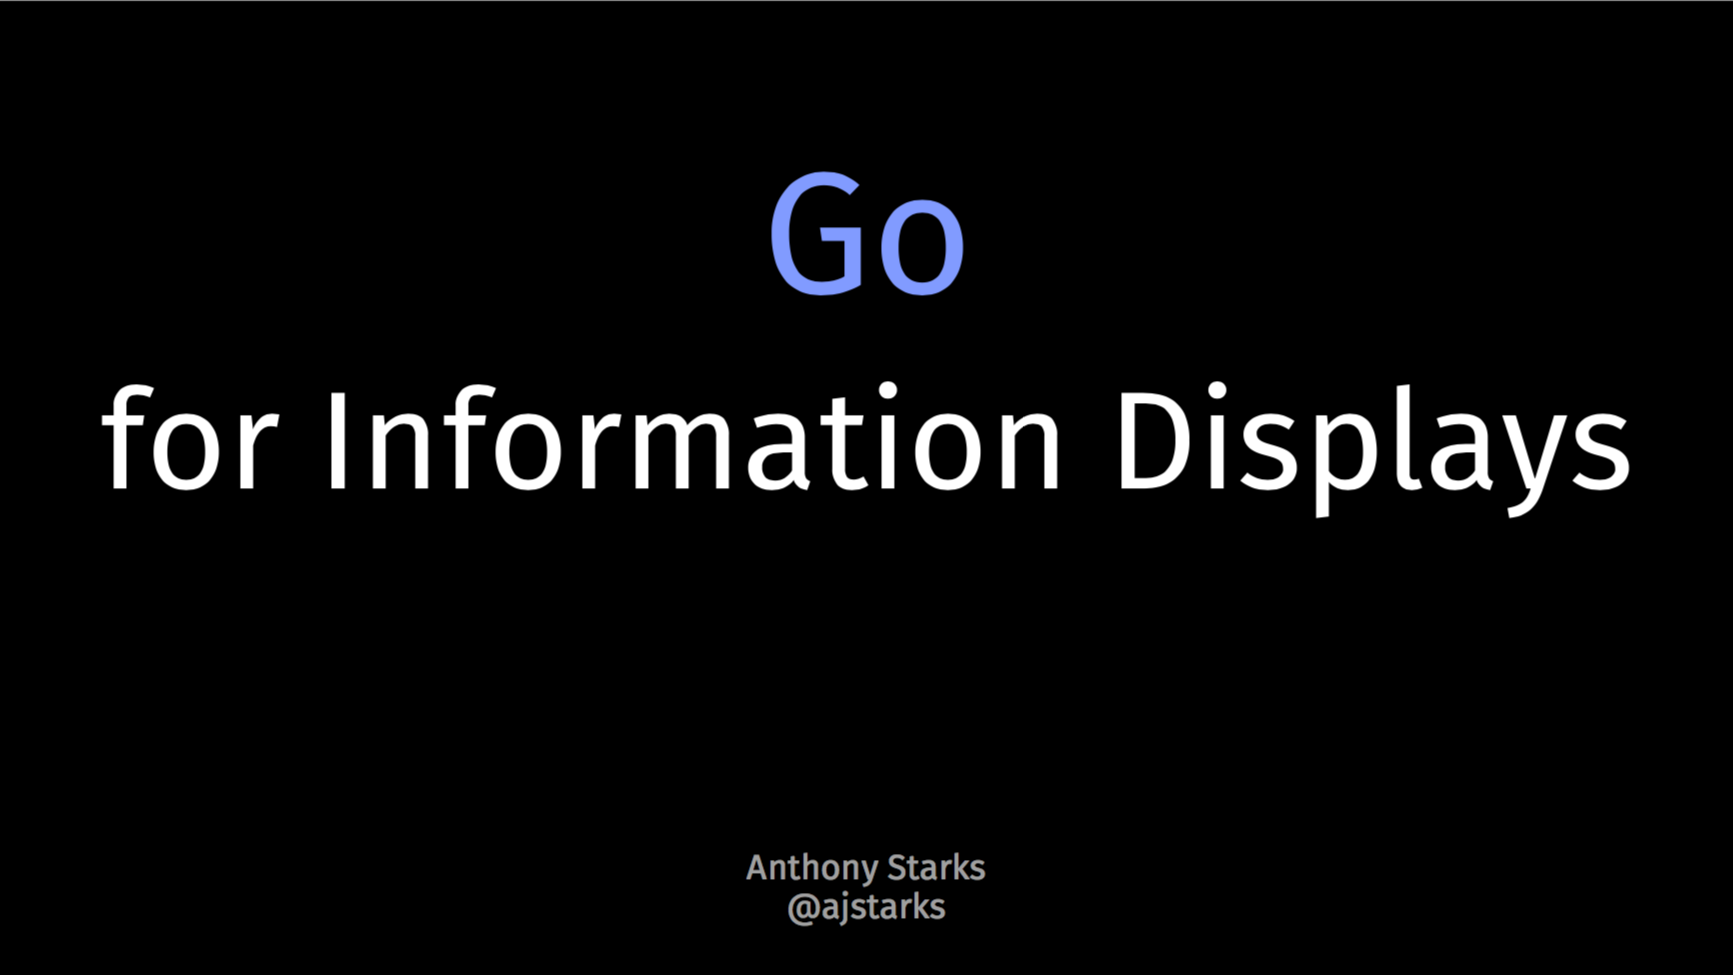
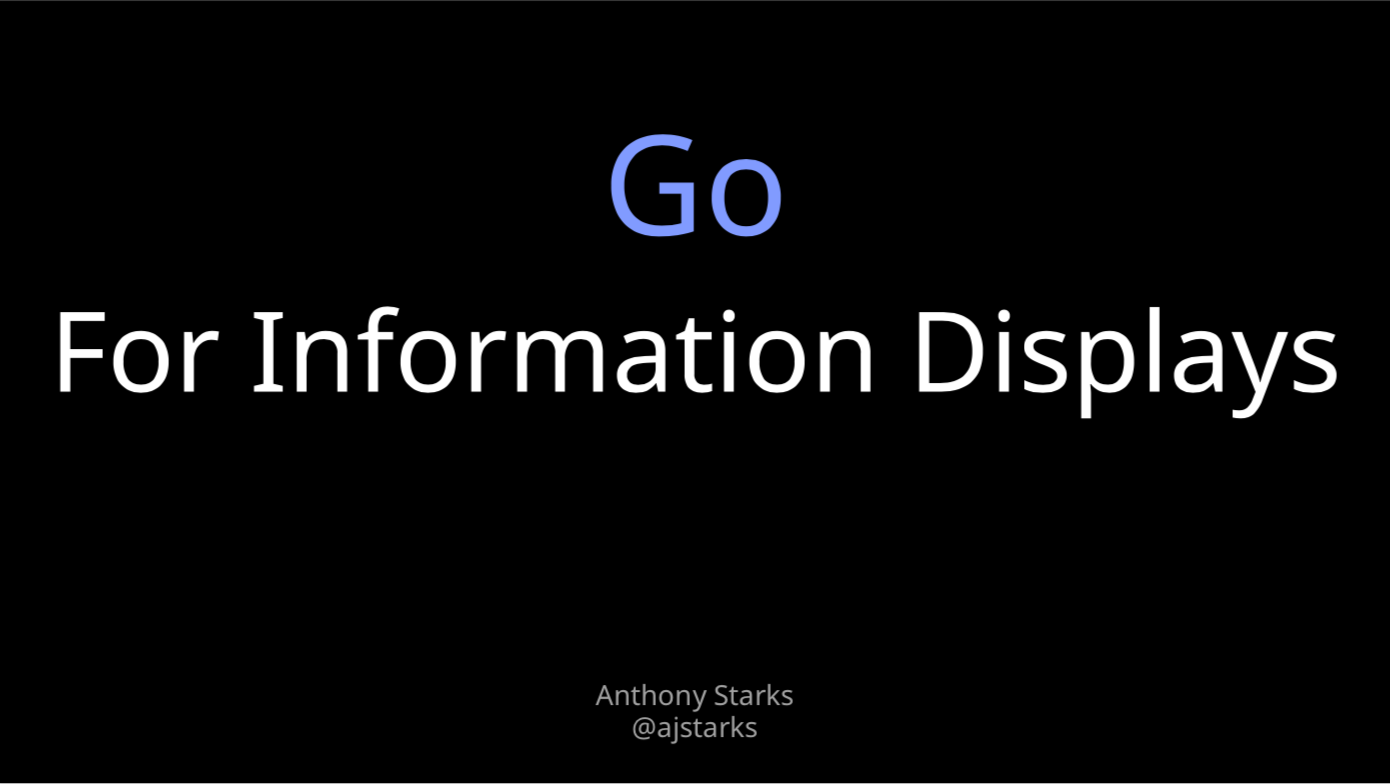
update README

diff --git a/README.md b/README.md
@@ -3,12 +3,19 @@
 
 ## Colophon
 
-This deck uses [Fira Sans, Fira Mono](https://en.wikipedia.org/wiki/Fira_Sans), and 
-[Charter](https://en.wikipedia.org/wiki/Bitstream_Charter).
+This deck uses [Noto Sans, Noto Mono, and Noto Serif](https://en.wikipedia.org/wiki/Noto_fonts).
 
 The command line to generate the deck
 
-	$ pdfdeck -pagesize 1920,1080 -mono FiraMono-Regular -sans FiraSans-Regular -serif Charter\ Regular goinfo.xml
+	$ ./mkdeck
+	
+can generate the deck for [Fira Sans, Fira Mono](https://en.wikipedia.org/wiki/Fira_Sans) and 
+[Bitstream Charter](https://en.wikipedia.org/wiki/Bitstream_Charter), or 
+the [Go fonts](https://blog.golang.org/go-fonts) and Charter.
+
+You can also generate the deck with this command:
+
+	$ pdfdeck -pagesize 1920,1080 -sans NotoSans-Regular -mono NotoMono-Regular -serif NotoSerif-Regular  goinfo.xml
 
 The fonts are stored in $DECKFONTS, generated from TrueType files with the ```makefont``` utility 
 from the [gofpdf](https://github.com/jung-kurt/gofpdf) package.
